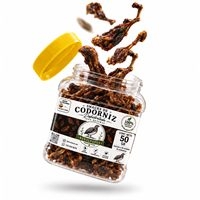
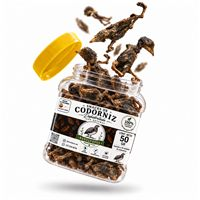
Nuevas fotos de los frascos (textura nueva) y de las codornices enteras en la cajita

Changed region(s): [[0.3, 0.0, 0.78, 0.6], [0.21, 0.72, 0.63, 0.9], [0.45, 0.63, 0.48, 0.66]]

diff --git a/index.html b/index.html
@@ -24,7 +24,7 @@
 <link rel="preconnect" href="https://fonts.googleapis.com">
 <link rel="preconnect" href="https://fonts.gstatic.com" crossorigin>
 <link rel="stylesheet" href="https://fonts.googleapis.com/css2?family=Young+Serif&family=Figtree:wght@400;500;600;700;800&display=swap">
-<link rel="preload" as="image" href="/assets/img/frascos2-600.jpg" imagesrcset="/assets/img/frascos2-600.jpg 600w, /assets/img/frascos2-1000.jpg 1000w" imagesizes="(min-width: 860px) 520px, 90vw">
+<link rel="preload" as="image" href="/assets/img/frascos2-600.jpg?v=2" imagesrcset="/assets/img/frascos2-600.jpg?v=2 600w, /assets/img/frascos2-1000.jpg?v=2 1000w" imagesizes="(min-width: 860px) 520px, 90vw">
 <link rel="stylesheet" href="/assets/css/landing.css?v=6">
 
 <script>
@@ -129,13 +129,13 @@
         <div class="hero-logo"><img src="/assets/img/logo.jpg" width="150" height="150" alt="Revoltosos — proteína 100 % natural"></div>
         <div class="hero-grid">
           <div class="hero-foto">
-            <img id="hero-img" src="/assets/img/frascos2-600.jpg" srcset="/assets/img/frascos2-600.jpg 600w, /assets/img/frascos2-1000.jpg 1000w" sizes="(min-width: 860px) 520px, 90vw" width="1000" height="1000" fetchpriority="high" alt="Dos frascos de codornices deshidratadas Revoltosos de 50 g, uno abierto con codornices saltando">
+            <img id="hero-img" src="/assets/img/frascos2-600.jpg?v=2" srcset="/assets/img/frascos2-600.jpg?v=2 600w, /assets/img/frascos2-1000.jpg?v=2 1000w" sizes="(min-width: 860px) 520px, 90vw" width="1000" height="1000" fetchpriority="high" alt="Dos frascos de codornices deshidratadas Revoltosos de 50 g, uno abierto con codornices saltando">
             <script>
               // La variante de 1 frasco muestra la foto de un solo frasco.
               if (document.documentElement.getAttribute('data-oferta') === 'codornices-unidad') {
                 var h = document.getElementById('hero-img');
-                h.srcset = '/assets/img/frasco-600.jpg 600w, /assets/img/frasco-1000.jpg 1000w';
-                h.src = '/assets/img/frasco-600.jpg';
+                h.srcset = '/assets/img/frasco-600.jpg?v=2 600w, /assets/img/frasco-1000.jpg?v=2 1000w';
+                h.src = '/assets/img/frasco-600.jpg?v=2';
                 h.alt = 'Frasco abierto de codornices deshidratadas Revoltosos de 50 g, con codornices saltando';
               }
             </script>
@@ -487,7 +487,7 @@
 
         <aside class="aparte" aria-label="Resumen de garantías">
           <div class="aparte-producto">
-            <img src="/assets/img/frasco-thumb.jpg" width="200" height="200" alt="" loading="lazy" style="width: 72px; height: 72px">
+            <img src="/assets/img/frasco-thumb.jpg?v=2" width="200" height="200" alt="" loading="lazy" style="width: 72px; height: 72px">
             <div><strong style="display: block">Codornices deshidratadas</strong><span style="color: var(--tinta-2)">50 g · aprox. 30 unidades</span></div>
           </div>
           <ul>
@@ -570,6 +570,6 @@
   <button type="button" id="cookies-ok">Entendido</button>
 </div>
 
-<script src="/assets/js/landing.js?v=7"></script>
+<script src="/assets/js/landing.js?v=8"></script>
 </body>
 </html>

diff --git a/assets/js/landing.js b/assets/js/landing.js
@@ -262,7 +262,7 @@ $('#form-pedido').addEventListener('submit', async (e) => {
       body: JSON.stringify(datos)
     });
     const r = await res.json().catch(() => ({}));
-    if (!res.ok || !r.ok) throw new Error(r.error || 'No pudimos registrar el pedido.');
+    if (!res.ok || !r.ok) throw Object.assign(new Error(r.error || 'No pudimos registrar el pedido.'), { status: res.status });
 
     const pedido = { ...datos, order_id: r.order_id, total: r.total };
     if (window.fbq) {
@@ -274,7 +274,11 @@ $('#form-pedido').addEventListener('submit', async (e) => {
     mostrarGracias(pedido);
   } catch (err) {
     const texto = 'Hola, quiero pedir ' + unidades(estado.cantidad) + ' de ' + P.producto + '. Mis datos: ' + datos.nombre + ', ' + datos.direccion + ', ' + datos.barrio + ', ' + datos.ciudad + ' - ' + datos.departamento + '.';
-    errorGeneral.innerHTML = 'No pudimos enviar tu pedido. Revisa tu conexión e inténtalo de nuevo, o <a href="https://wa.me/' + CONFIG.WHATSAPP + '?text=' + encodeURIComponent(texto) + '" target="_blank" rel="noopener">pídelo por WhatsApp</a>.';
+    const wa = '<a href="https://wa.me/' + CONFIG.WHATSAPP + '?text=' + encodeURIComponent(texto) + '" target="_blank" rel="noopener">';
+    // 429: ya hubo un pedido desde esta conexión en las últimas 72 horas (ver crear-pedido).
+    errorGeneral.innerHTML = err.status === 429
+      ? 'Ya recibimos un pedido desde esta conexión hace poco. Si quieres pedir otro, ' + wa + 'escríbenos por WhatsApp</a> y te ayudamos.'
+      : 'No pudimos enviar tu pedido. Revisa tu conexión e inténtalo de nuevo, o ' + wa + 'pídelo por WhatsApp</a>.';
     errorGeneral.hidden = false;
     btn.disabled = false;
     btn.textContent = 'PAGAR AL RECIBIR';

diff --git a/cajita/index.html b/cajita/index.html
@@ -177,7 +177,7 @@
             <div><span class="caja-cantidad">50 g</span><strong>Codornicitas</strong><span>Nuestro frasco de codorniz, ideal para premiar.</span></div>
           </article>
           <article class="caja-item">
-            <img src="/assets/img/productos/codorniz-entera-x2-producto-600.jpg" width="600" height="600" loading="lazy" alt="Dos codornices enteras deshidratadas">
+            <img src="/assets/img/productos/codorniz-entera-x2-producto-600.jpg?v=2" width="600" height="600" loading="lazy" alt="Dos codornices enteras deshidratadas">
             <div><span class="caja-cantidad">×2</span><strong>Codorniz entera</strong><span>Carne, piel y hueso en un solo snack.</span></div>
           </article>
           <article class="caja-item">
@@ -481,6 +481,6 @@
   <button type="button" id="cookies-ok">Entendido</button>
 </div>
 
-<script src="/assets/js/landing.js?v=7"></script>
+<script src="/assets/js/landing.js?v=8"></script>
 </body>
 </html>
